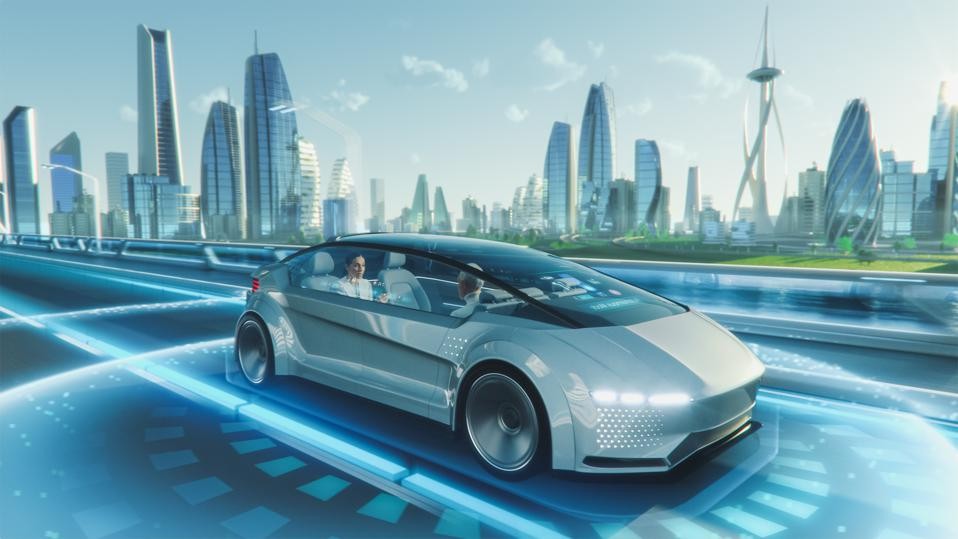
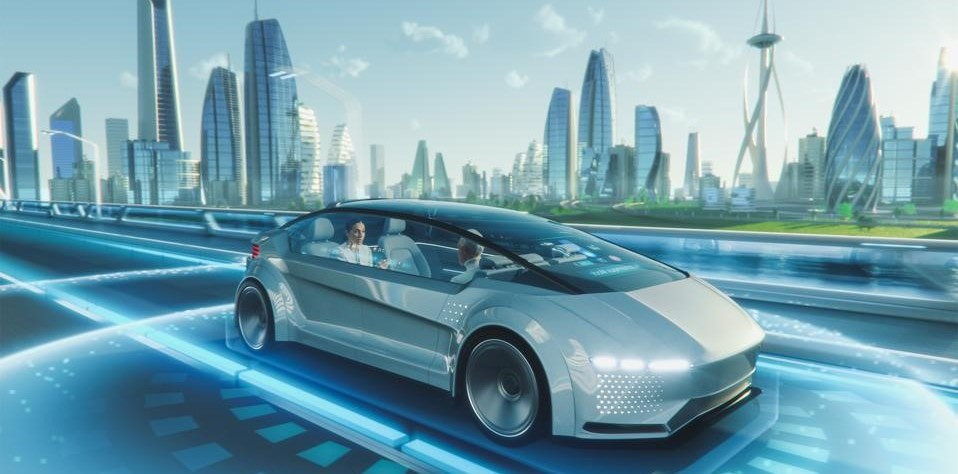
modified:   img/car2.jpg 	new file:   img/city.webp 	modified:   index.html

diff --git a/index.html b/index.html
@@ -114,16 +114,6 @@
                     </div>
                 </div>
             </div>
-            <!-- <button class="carousel-control-prev" type="button" data-bs-target="#header-carousel"
-                data-bs-slide="prev">
-                <span class="carousel-control-prev-icon" aria-hidden="true"></span>
-                <span class="visually-hidden">Previous</span>
-            </button>
-            <button class="carousel-control-next" type="button" data-bs-target="#header-carousel"
-                data-bs-slide="next">
-                <span class="carousel-control-next-icon" aria-hidden="true"></span>
-                <span class="visually-hidden">Next</span>
-            </button> -->
         </div>
     </div>
     <!-- Carousel End -->
@@ -144,7 +134,7 @@
                         <div class="d-flex flex-shrink-0 align-items-center justify-content-center bg-white text-primary rounded-circle mx-auto mb-4" style="width: 60px; height: 60px;">
                             <i class="fa fa-chart-line fs-4"></i>
                         </div>
-                        <div class="ps-4">
+                        <div class="ps-4" id="about">
                             <h3>DURABLE</h3>
                             <p class="mb-0">Our car has a smart cooling system when batteries heat up prventing brakdown of batteries</p>
                         </div>
@@ -177,7 +167,7 @@
     <!-- Services Start -->
     <div class="container-fluid pt-6 px-5" id="service">
         <div class="text-center mx-auto mb-5" style="max-width: 600px;">
-            <h1 class="display-5 mb-0">What We Offer</h1>
+            <h1 class="display-5 mb-0" >What We Offer</h1>
             <hr class="w-25 mx-auto bg-primary">
         </div>
         <div class="row g-5">
@@ -187,7 +177,7 @@
                         <i class="fa fa-user-tie fa-2x"></i>
                     </div>
                     <h3 class="mb-3">Smart Maintenance</h3>
-                    <p class="mb-0">Tempor erat elitr rebum at clita. Diam dolor ipsum amet eos erat ipsum lorem et sit sed stet lorem</p>
+                    <p class="mb-0">Our car has a cooling system which cools down the batteries incase the batteries start to heat up preventing their breakdown and ensures long life and durability of the battery and the car</p>
                 </div>
             </div>
             <div class="col-lg-4 col-md-6">
@@ -196,7 +186,7 @@
                         <i class="fa fa-chart-pie fa-2x"></i>
                     </div>
                     <h3 class="mb-3">High Battery Backup</h3>
-                    <p class="mb-0"></p>
+                    <p class="mb-0">Our cars are equipped with solar sun roof which automatically charges the battery of car during daytime. Moreover, when brakes are applied the energy released is used for charging the battery.</p>
                 </div>
             </div>
             <div class="col-lg-4 col-md-6">
@@ -205,7 +195,7 @@
                         <i class="fa fa-chart-line fa-2x"></i>
                     </div>
                     <h3 class="mb-3">AI System</h3>
-                    <p class="mb-0">Tempor erat elitr rebum at clita. Diam dolor ipsum amet eos erat ipsum lorem et sit sed stet lorem</p>
+                    <p class="mb-0">Our car has smart AI system which automatically optimises the car for best performance. It adjusts the suspension of the car automatically according to the terrain and has variety of saftey features.</p>
                 </div>
             </div>
             <div class="col-lg-4 col-md-6">
@@ -214,7 +204,7 @@
                         <i class="fa fa-chart-area fa-2x"></i>
                     </div>
                     <h3 class="mb-3">High Horse Power</h3>
-                    <p class="mb-0">Around 1000 horsepower achieves a quick 0-60 mph time of 3.1 seconds, and its top speed is 155 mph.</p>
+                    <p class="mb-0"> Our cars offer around 1000 horsepower and they can achieve a quick 0-60 mph time of 3.1 seconds. Its top speed can go upto 200 mph , enchancing the driving pleasure</p>
                 </div>
             </div>
             <div class="col-lg-4 col-md-6">
@@ -223,7 +213,7 @@
                         <i class="fa fa-balance-scale fa-2x"></i>
                     </div>
                     <h3 class="mb-3">ADAS</h3>
-                    <p class="mb-0">Tempor erat elitr rebum at clita. Diam dolor ipsum amet eos erat ipsum lorem et sit sed stet lorem</p>
+                    <p class="mb-0">Our car is equipped with advanced Driver Assistance System making it one of the most safe cars as the cars can break automatically incase of lost control</p>
                 </div>
             </div>
             <div class="col-lg-4 col-md-6">
@@ -231,8 +221,8 @@
                     <div class="d-flex align-items-center justify-content-center bg-primary text-white rounded-circle mx-auto mb-4" style="width: 90px; height: 90px;">
                         <i class="fa fa-house-damage fa-2x"></i>
                     </div>
-                    <h3 class="mb-3">High Efficiency</h3>
-                    <p class="mb-0">Tempor erat elitr rebum at clita. Diam dolor ipsum amet eos erat ipsum lorem et sit sed stet lorem</p>
+                    <h3 class="mb-3">Affordable</h3>
+                    <p class="mb-0">Our cars our affordable as in the long run they are self maintained by the smart AI system and batteries can be charged through solar sun roof reducing the cost of charging</p>
                 </div>
             </div>
         </div>
@@ -254,30 +244,30 @@
                             <i class="fa fa-cubes fs-4 text-white"></i>
                         </div>
                         <h3>Auto Adjusting Suspension</h3>
-                        <p class="mb-0">Magna sea eos sit dolor, ipsum amet ipsum lorem diam dolor eos diam et diam dolor ea</p>
+                        <p class="mb-0">According to the terrain the AI system changes the suspension of the car to ensure the best driving experience</p>
                     </div>
                     <div class="col-12">
                         <div class="bg-primary rounded-circle d-flex align-items-center justify-content-center mb-3" style="width: 60px; height: 60px;">
                             <i class="fa fa-percent fs-4 text-white"></i>
                         </div>
                         <h3>Smart Cooling System</h3>
-                        <p class="mb-0">Magna sea eos sit dolor, ipsum amet ipsum lorem diam dolor eos diam et diam dolor ea</p>
+                        <p class="mb-0">Incase the temperature of the battery in the car rises the AI system turns on the cooling system to prevent the breakdown of battery</p>
                     </div>
                     <div class="col-12">
                         <div class="bg-primary rounded-circle d-flex align-items-center justify-content-center mb-3" style="width: 60px; height: 60px;">
                             <i class="fa fa-award fs-4 text-white"></i>
                         </div>
                         <h3>Low Power Mode</h3>
-                        <p class="mb-0">Magna sea eos sit dolor, ipsum amet ipsum lorem diam dolor eos diam et diam dolor ea</p>
+                        <p class="mb-0">When the battery in the car is low the AI system optimises the car by turning off the extra features in the car such as gps system , music sytem , extra lights to keep up the performance</p>
                     </div>
                 </div>
             </div>
             <div class="col-lg-4">
-                <div class="d-block bg-primary h-100 text-center">
-                    <img class="img-fluid" src="img/feature.jpg" alt="">
-                    <div class="p-4">
-                        <p class="text-white mb-4">Clita nonumy sanctus nonumy et clita tempor, et sea amet ut et sadipscing rebum amet takimata amet, sed accusam eos eos dolores dolore et. Et ea ea dolor rebum invidunt clita eos. Sea accusam stet stet ipsum, sit ipsum et ipsum kasd</p>
-                        <a href="" class="btn btn-light py-md-3 px-md-5 rounded-pill mb-2">Learn More</a>
+                <div class="d-block bg-primary h-100 text-center" style="background-color: #152440;">
+                    <img class="img-fluid" src="img/city.webp" alt="">
+                    <div class="p-4" style="background-color:#152440;">
+                        <p class="text-white mb-4">Our company aims to integrate sustainable development with lastest technology. The utmost priority of the company is to provide the customers with the maximum features and ensuring their safety while meeting their cost expectations</p>
+                        <a href="#about" class="btn btn-light py-md-3 px-md-5 rounded-pill mb-2">Learn More</a>
                     </div>
                 </div>
             </div>
@@ -288,21 +278,21 @@
                             <i class="far fa-smile-beam fs-4 text-white"></i>
                         </div>
                         <h3>Performance Prediction</h3>
-                        <p class="mb-0">Magna sea eos sit dolor, ipsum amet ipsum lorem diam dolor eos diam et diam dolor ea</p>
+                        <p class="mb-0">The AI system carefuly analyses the performance of the car to meet the desired goal and gives insights for better performance of the car</p>
                     </div>
                     <div class="col-12">
                         <div class="bg-primary rounded-circle d-flex align-items-center justify-content-center mb-3" style="width: 60px; height: 60px;">
                             <i class="fa fa-user-tie fs-4 text-white"></i>
                         </div>
                         <h3>Smart Unlocking Sytsem</h3>
-                        <p class="mb-0">Magna sea eos sit dolor, ipsum amet ipsum lorem diam dolor eos diam et diam dolor ea</p>
+                        <p class="mb-0">The AI system in the car has a smart unlocking system and as soon as it senses the owner of the car touching the handle or the owner speaking 'unlock' the car unlocks</p>
                     </div>
                     <div class="col-12">
                         <div class="bg-primary rounded-circle d-flex align-items-center justify-content-center mb-3" style="width: 60px; height: 60px;">
                             <i class="fa fa-headset fs-4 text-white"></i>
                         </div>
                         <h3>Automatic Shutdown</h3>
-                        <p class="mb-0">Magna sea eos sit dolor, ipsum amet ipsum lorem diam dolor eos diam et diam dolor ea</p>
+                        <p class="mb-0">The car automatically slows and shuts down in the corner of road incase of system failure or if the car heats up extremely to ensure safety of the owner of the car </p>
                     </div>
                 </div>
             </div>
@@ -325,193 +315,11 @@
                 <div class="product" data-content="Model Y" onclick="modelY()"><img src="img/modely.jpeg" style="width:100%;height:100%"></div>
                 <div class="product" data-content="Model X" onclick="modelX()"><img src="img/modelx.jpeg" style="width:100%;height:100%"></div>
         </div>
-            
-            
-    
-    
-            
-            
-            
-            
-            
-            <!-- <div class="text-center mx-auto mb-5" style="max-width: 600px;">
-                <h1 class="display-5 mb-0">Our Products</h1>
-                <hr class="w-25 mx-auto bg-primary">
-            </div>
-            <div class="row g-5">
-                <div class="col-lg-4">
-                    <div class="team-item position-relative overflow-hidden">
-                        <img class="img-fluid w-100" src="img/team-1.jpg" alt="">
-                        <div class="team-text w-100 position-absolute top-50 text-center bg-primary p-4">
-                            <h3 class="text-white">Full Name</h3>
-                            <p class="text-white text-uppercase mb-0">Designation</p>
-                        </div>
-                    </div>
-                </div>
-                <div class="col-lg-4">
-                    <div class="team-item position-relative overflow-hidden">
-                        <img class="img-fluid w-100" src="img/team-2.jpg" alt="">
-                        <div class="team-text w-100 position-absolute top-50 text-center bg-primary p-4">
-                            <h3 class="text-white">Full Name</h3>
-                            <p class="text-white text-uppercase mb-0">Designation</p>
-                        </div>
-                    </div>
-                </div>
-                <div class="col-lg-4">
-                    <div class="team-item position-relative overflow-hidden">
-                        <img class="img-fluid w-100" src="img/team-3.jpg" alt="">
-                        <div class="team-text w-100 position-absolute top-50 text-center bg-primary p-4">
-                            <h3 class="text-white">Full Name</h3>
-                            <p class="text-white text-uppercase mb-0">Designation</p>
-                        </div>
-                    </div>
-                </div>
-            </div> -->
         </div>
     </span>
-    
-    <!-- Team End -->
-
-
-    <!-- Testimonial Start -->
-   
-
-    <!--Blog Start-->
-    <!-- <div class="container-fluid py-6 px-5">
-        <div class="text-center mx-auto mb-5" style="max-width: 600px;">
-            <h1 class="display-5 mb-0">Latest Blog Post</h1>
-            <hr class="w-25 mx-auto bg-primary">
-        </div>
-        <div class="row g-5">
-            <div class="col-lg-4">
-                <div class="blog-item">
-                    <div class="position-relative overflow-hidden">
-                        <img class="img-fluid" src="img/blog-1.jpg" alt="">
-                    </div>
-                    <div class="bg-secondary d-flex">
-                        <div class="flex-shrink-0 d-flex flex-column justify-content-center text-center bg-primary text-white px-4">
-                            <span>01</span>
-                            <h5 class="text-uppercase m-0">Jan</h5>
-                            <span>2045</span>
-                        </div>
-                        <div class="d-flex flex-column justify-content-center py-3 px-4">
-                            <div class="d-flex mb-2">
-                                <small class="text-uppercase me-3"><i class="bi bi-person me-2"></i>Admin</small>
-                                <small class="text-uppercase me-3"><i class="bi bi-bookmarks me-2"></i>Web Design</small>
-                            </div>
-                            <a class="h4" href="">Magna sea dolor ipsum amet lorem eos</a>
-                        </div>
-                    </div>
-                </div>
-            </div>
-            <div class="col-lg-4">
-                <div class="blog-item">
-                    <div class="position-relative overflow-hidden">
-                        <img class="img-fluid" src="img/blog-2.jpg" alt="">
-                    </div>
-                    <div class="bg-secondary d-flex">
-                        <div class="flex-shrink-0 d-flex flex-column justify-content-center text-center bg-primary text-white px-4">
-                            <span>01</span>
-                            <h5 class="text-uppercase m-0">Jan</h5>
-                            <span>2045</span>
-                        </div>
-                        <div class="d-flex flex-column justify-content-center py-3 px-4">
-                            <div class="d-flex mb-2">
-                                <small class="text-uppercase me-3"><i class="bi bi-person me-2"></i>Admin</small>
-                                <small class="text-uppercase me-3"><i class="bi bi-bookmarks me-2"></i>Web Design</small>
-                            </div>
-                            <a class="h4" href="">Magna sea dolor ipsum amet lorem eos</a>
-                        </div>
-                    </div>
-                </div>
-            </div>
-            <div class="col-lg-4">
-                <div class="blog-item">
-                    <div class="position-relative overflow-hidden">
-                        <img class="img-fluid" src="img/blog-3.jpg" alt="">
-                    </div>
-                    <div class="bg-secondary d-flex">
-                        <div class="flex-shrink-0 d-flex flex-column justify-content-center text-center bg-primary text-white px-4">
-                            <span>01</span>
-                            <h5 class="text-uppercase m-0">Jan</h5>
-                            <span>2045</span>
-                        </div>
-                        <div class="d-flex flex-column justify-content-center py-3 px-4">
-                            <div class="d-flex mb-2">
-                                <small class="text-uppercase me-3"><i class="bi bi-person me-2"></i>Admin</small>
-                                <small class="text-uppercase me-3"><i class="bi bi-bookmarks me-2"></i>Web Design</small>
-                            </div>
-                            <a class="h4" href="">Magna sea dolor ipsum amet lorem eos</a>
-                        </div>
-                    </div>
-                </div>
-            </div>
-        </div>
-    </div> -->
-    <!-- Blog End -->
-    
-
-    <!-- Footer Start -->
-    <div class="container-fluid bg-secondary text-secondary p-5">
-        <div class="row g-5">
-            <div class="col-12 text-center">
-                <h1 class="display-5 mb-4" style="margin-bottom:0 !important">Sign Up to our Newsletter!</h1>
-                <h5 style="margin-bottom:1.5vh !important">And get to know all about our revolutionary new ventures!</h5>
-                
-                <form class="mx-auto" style="max-width: 600px;">
-                    <div class="input-group">
-                        <input type="text" class="form-control border-white p-3" placeholder="Your Email">
-                        <button class="btn btn-dark px-4">Sign Up</button>
-                    </div>
-                </form>
-            </div>
-        </div>
+    <div class="container-fluid bg-dark text-secondary text-center border-top py-4 px-5" style="border-color: rgba(256, 256, 256, .1) !important;background-color: black ;">
+        <p class="m-0">&copy; <a class="text-secondary border-bottom" href="#">Electron Motors</a>. All Rights Reserved. Designed by LVIS</p>
     </div>
-    <div class="container-fluid bg-dark text-secondary p-5">
-        <div class="row g-5">
-            <div class="col-lg-3 col-md-6">
-                <h3 class="text-white mb-4">Quick Links</h3>
-                <div class="d-flex flex-column justify-content-start">
-                    <a class="text-secondary mb-2" href="#"><i class="bi bi-arrow-right text-primary me-2"></i>Home</a>
-                    <a class="text-secondary mb-2" href="#"><i class="bi bi-arrow-right text-primary me-2"></i>About Us</a>
-                    <a class="text-secondary mb-2" href="#"><i class="bi bi-arrow-right text-primary me-2"></i>Our Services</a>
-                    <a class="text-secondary mb-2" href="#"><i class="bi bi-arrow-right text-primary me-2"></i>Latest Blog Post</a>
-                    <a class="text-secondary" href="#"><i class="bi bi-arrow-right text-primary me-2"></i>Contact Us</a>
-                </div>
-            </div>
-            <div class="col-lg-3 col-md-6">
-                <h3 class="text-white mb-4">Popular Links</h3>
-                <div class="d-flex flex-column justify-content-start">
-                    <a class="text-secondary mb-2" href="#"><i class="bi bi-arrow-right text-primary me-2"></i>Home</a>
-                    <a class="text-secondary mb-2" href="#"><i class="bi bi-arrow-right text-primary me-2"></i>About Us</a>
-                    <a class="text-secondary mb-2" href="#"><i class="bi bi-arrow-right text-primary me-2"></i>Our Services</a>
-                    <a class="text-secondary mb-2" href="#"><i class="bi bi-arrow-right text-primary me-2"></i>Latest Blog Post</a>
-                    <a class="text-secondary" href="#"><i class="bi bi-arrow-right text-primary me-2"></i>Contact Us</a>
-                </div>
-            </div>
-            <div class="col-lg-3 col-md-6">
-                <h3 class="text-white mb-4">Get In Touch</h3>
-                <p class="mb-2"><i class="bi bi-geo-alt text-primary me-2"></i>123 Road, New Delhi, 122119</p>
-                <p class="mb-2"><i class="bi bi-envelope-open text-primary me-2"></i>info@boltero.com</p>
-                <p class="mb-0"><i class="bi bi-telephone text-primary me-2"></i>+188 999 19291</p>
-            </div>
-            <div class="col-lg-3 col-md-6">
-                <h3 class="text-white mb-4">Follow Us</h3>
-                <div class="d-flex">
-                    <a class="btn btn-lg btn-primary btn-lg-square rounded-circle me-2" href="#"><i class="fab fa-twitter fw-normal"></i></a>
-                    <a class="btn btn-lg btn-primary btn-lg-square rounded-circle me-2" href="#"><i class="fab fa-facebook-f fw-normal"></i></a>
-                    <a class="btn btn-lg btn-primary btn-lg-square rounded-circle me-2" href="#"><i class="fab fa-linkedin-in fw-normal"></i></a>
-                    <a class="btn btn-lg btn-primary btn-lg-square rounded-circle" href="#"><i class="fab fa-instagram fw-normal"></i></a>
-                </div>
-            </div>
-        </div>
-    </div>
-    <div class="container-fluid bg-dark text-secondary text-center border-top py-4 px-5" style="border-color: rgba(256, 256, 256, .1) !important;">
-        <p class="m-0">&copy; <a class="text-secondary border-bottom" href="#">Boltero</a>. All Rights Reserved. Designed by LVIS</p>
-    </div>
-    <!-- Footer End -->
-
-
     <!-- Back to Top -->
     <a href="#" class="btn btn-lg btn-primary btn-lg-square rounded-circle back-to-top"><i class="bi bi-arrow-up"></i></a>
 
